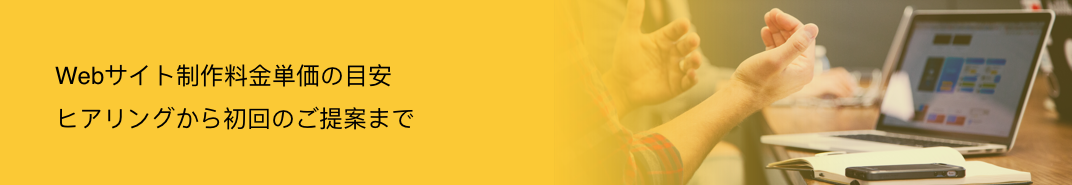
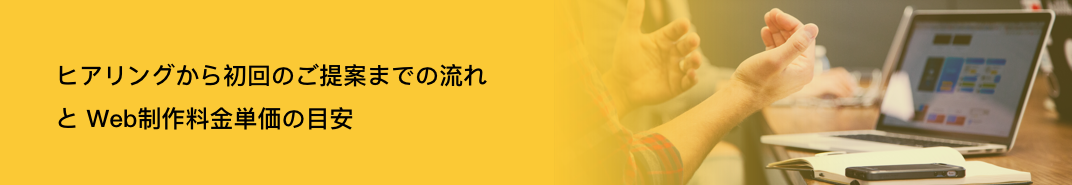
added new setup for webdev-price-range jp

Changed region(s): [[0.0308, 0.3514, 0.4618, 0.4865], [0.0308, 0.5676, 0.4002, 0.7027]]

diff --git a/jp/services/web-dev-price-range.php b/jp/services/web-dev-price-range.php
@@ -208,21 +208,19 @@ if(isset($_POST['submitted']))
                                     <div class="col-md-6"></div>
                                     <div class="col-md-6">
                                         <h1 class="title">
-                                            <span><span>Web制作サービスメニュー </span></span>
+                                            <span><span>Web / ホームページ制作サービスメニュー</span></span>
                                         </h1>
                                         <div class="content">
                                             <p>
-                                                お客様のWeb制作運用ニーズに合わせて４つの基本サービスメニューを用意しています。様々なニーズにお応えするために４つのメニューをご用意しました。
+                                            お客様の様々なWeb・ホームページ制作運用ニーズにお応えするために４つの基本サービスメニューをご用意しました。
                                             </p>
                                             <p>
-                                                予算の大小に関わらず定められたスコープの中で最良のWebを制作します。
+                                            ご相談前に費用感などをお知りになりたいという声が多いので、こちらに掲載の情報を参考にしていただければと思います。
+ご予算の大小で作業スコープは変わってきますが、どのプロジェクトにも作業スコープ内で最善を尽くします。
                                             </p>
                                             <p>
-                                                お客様のご要望が当社のどのサービスメニューに該当するのか不明などの場合にはお気軽にご相談ください。
+                                            お客様のご要望にフィットするサービスメニューはどれかご不明な場合など、お気軽にご相談ください
                                             </p>
-
-
-
                                         </div>
                                     </div>
                                 </div>
@@ -237,7 +235,7 @@ if(isset($_POST['submitted']))
         <div class="container">
             <div class="row">
                 <div class="col-md-6 img-container">
-                    <img src="assets/img/img-webdev/webdev-service/1.png" alt="">
+                    <img src="assets/img/img-webdev/webdev-service/11.png" alt="">
                 </div>
                 <div class="col-md-6 content-container">
                     <div class="title-container">
@@ -265,17 +263,17 @@ if(isset($_POST['submitted']))
                     <div class="detail-container detail-margin">
                         <img src="assets/img/img-webdev/webdev-service/checklist.svg" alt="">
                         <div class="detail-title">
-                            <span>制作費用</span>
+                            <span>作業内容</span>
                         </div>
                         <div class="detail-content detail-list">
-                            <p>• デザイン、HTMLコーディング、Deploy（当社管理WebサーバーにDeploy (*別途Webサーバー利用料が必要になります）、もしくはWebファイルを納品）</p>
-                            <p>• 素材は全てご用意いただきます</p>
+                            <p>• デザイン、HTMLコーディング、標準的なSEO対策、調整＆テスト、公開作業</p>
+                            <p>• 素材は全てご用意いただきます。</p>
                             <p>• Static Webが原則</p>
                         </div>
                     </div>
                     <div class="price-container">
-                        <p class="title">制作内容</p>
-                        <p class="price">15 juta 〜 30 juta</p>
+                        <p class="title">制作費用</p>
+                        <p class="price">15 juta 〜 30 juta IDR</p>
                     </div>
                     <div class="button-container">
                         <a href="/jp/contact.php">
@@ -315,18 +313,18 @@ if(isset($_POST['submitted']))
                     <div class="detail-container detail-margin">
                         <img src="assets/img/img-webdev/webdev-service/checklist.svg" alt="">
                         <div class="detail-title">
-                            <span>制作費用</span>
+                            <span>作業内容</span>
                         </div>
                         <div class="detail-content detail-list">
-                            <p>	•	デザイン、HTMLコーディング、CMSフィッティング、Deploy（当社管理WebサーバーにDeploy (*別途Webサーバー利用料が必要になります）、もしくはWebファイルを納品</p>
+                            <p>•	デザイン、HTMLコーディング、CMSフィッティング、標準的なSEO対策、調整＆テスト、公開作業</p>
                             <p>•	Static Web or Wordpress or 当社独自CMS</p>
-                            <p>	•	原則、素材は提供いただきます。</p>
-                            <p>	•	お客様都合で4ヶ月を超えることになる場合にはAdditionalコストが必要となるケースがあります。</p>
+                            <p>•	原則、素材は提供いただきます。</p>
+                            <p>	*お客様都合で4ヶ月を超えることになる場合には追加費用が必要となるケースがあります。</p>
                         </div>
                     </div>
                     <div class="price-container">
-                        <p class="title">制作内容</p>
-                        <p class="price">30 juta 〜 60 juta</p>
+                        <p class="title">制作費用</p>
+                        <p class="price">30 juta 〜 60 juta IDR</p>
                     </div>
                     <div class="button-container">
                         <a href="/jp/contact.php">
@@ -335,7 +333,7 @@ if(isset($_POST['submitted']))
                     </div>
                 </div>
                 <div class="col-md-6 img-container">
-                    <img src="assets/img/img-webdev/webdev-service/2.png" alt="">
+                    <img src="assets/img/img-webdev/webdev-service/22.png" alt="">
                 </div>
             </div>
         </div>
@@ -344,7 +342,7 @@ if(isset($_POST['submitted']))
         <div class="container">
             <div class="row">
                 <div class="col-md-6 img-container">
-                    <img src="assets/img/img-webdev/webdev-service/3.png" alt="">
+                    <img src="assets/img/img-webdev/webdev-service/33.png" alt="">
                 </div>
                 <div class="col-md-6 content-container">
                     <div class="title-container">
@@ -372,17 +370,17 @@ if(isset($_POST['submitted']))
                     <div class="detail-container detail-margin">
                         <img src="assets/img/img-webdev/webdev-service/checklist.svg" alt="">
                         <div class="detail-title">
-                            <span>制作費用</span>
+                            <span>作業内容</span>
                         </div>
                         <div class="detail-content detail-list">
-                            <p>•	デザイン、HTMLコーディング、CMS構築、QA、インフラ設定、Securityアセスメント（*詳細なPentestは別料金）、Deploy</p>
-                            <p>•	オープンソースCMS or 当社独自CMS or 	PHPフレームワークで構築</p>
+                            <p>•	デザイン、HTMLコーディング、標準的なSEO対策、CMS構築、QA、インフラ設定、Securityアセスメント（*詳細なPentestは別料金）、公開作業</p>
+                            <p>•	オープンソースCMS or 当社独自CMS or PHPフレームワークで構築</p>
                             <p>•	原則、素材は提供いただきます。</p>
                         </div>
                     </div>
                     <div class="price-container">
-                        <p class="title">制作内容</p>
-                        <p class="price">80 juta 〜 150 juta</p>
+                        <p class="title">制作費用</p>
+                        <p class="price">80 juta 〜 150 juta IDR</p>
                     </div>
                     <div class="button-container">
                         <a href="/jp/contact.php">
@@ -422,7 +420,7 @@ if(isset($_POST['submitted']))
                     <div class="detail-container detail-margin">
                         <img src="assets/img/img-webdev/webdev-service/checklist.svg" alt="">
                         <div class="detail-title">
-                            <span>制作費用</span>
+                            <span>作業内容</span>
                         </div>
                         <div class="detail-content detail-list">
                             <p>•	アニメーション制作などスコープに限界はありません。ご要望に応じて、また競合他社と差別化するために必要なものを制作します。</p>
@@ -433,7 +431,7 @@ if(isset($_POST['submitted']))
                         </div>
                     </div>
                     <div class="price-container">
-                        <p class="title">制作内容</p>
+                        <p class="title">制作費用</p>
                         <p class="price">200 juta 〜 500 juta</p>
                     </div>
                     <div class="button-container">
@@ -443,7 +441,7 @@ if(isset($_POST['submitted']))
                     </div>
                 </div>
                 <div class="col-md-6 img-container">
-                    <img src="assets/img/img-webdev/webdev-service/4.png" alt="">
+                    <img src="assets/img/img-webdev/webdev-service/44.png" alt="">
                 </div>
             </div>
         </div>
@@ -608,7 +606,7 @@ if(isset($_POST['submitted']))
                     </a>
                 </div>
                 <div class="col-md-6 col-sm-6">
-                    <a href="https://www.linkedin.com/company/13420656" target="_blank">
+                     <a href="https://www.linkedin.com/company/13420656" target="_blank">
                         <img src="assets/img/img-webdev/linkedinads.png" alt="">
                     </a>
                 </div>
